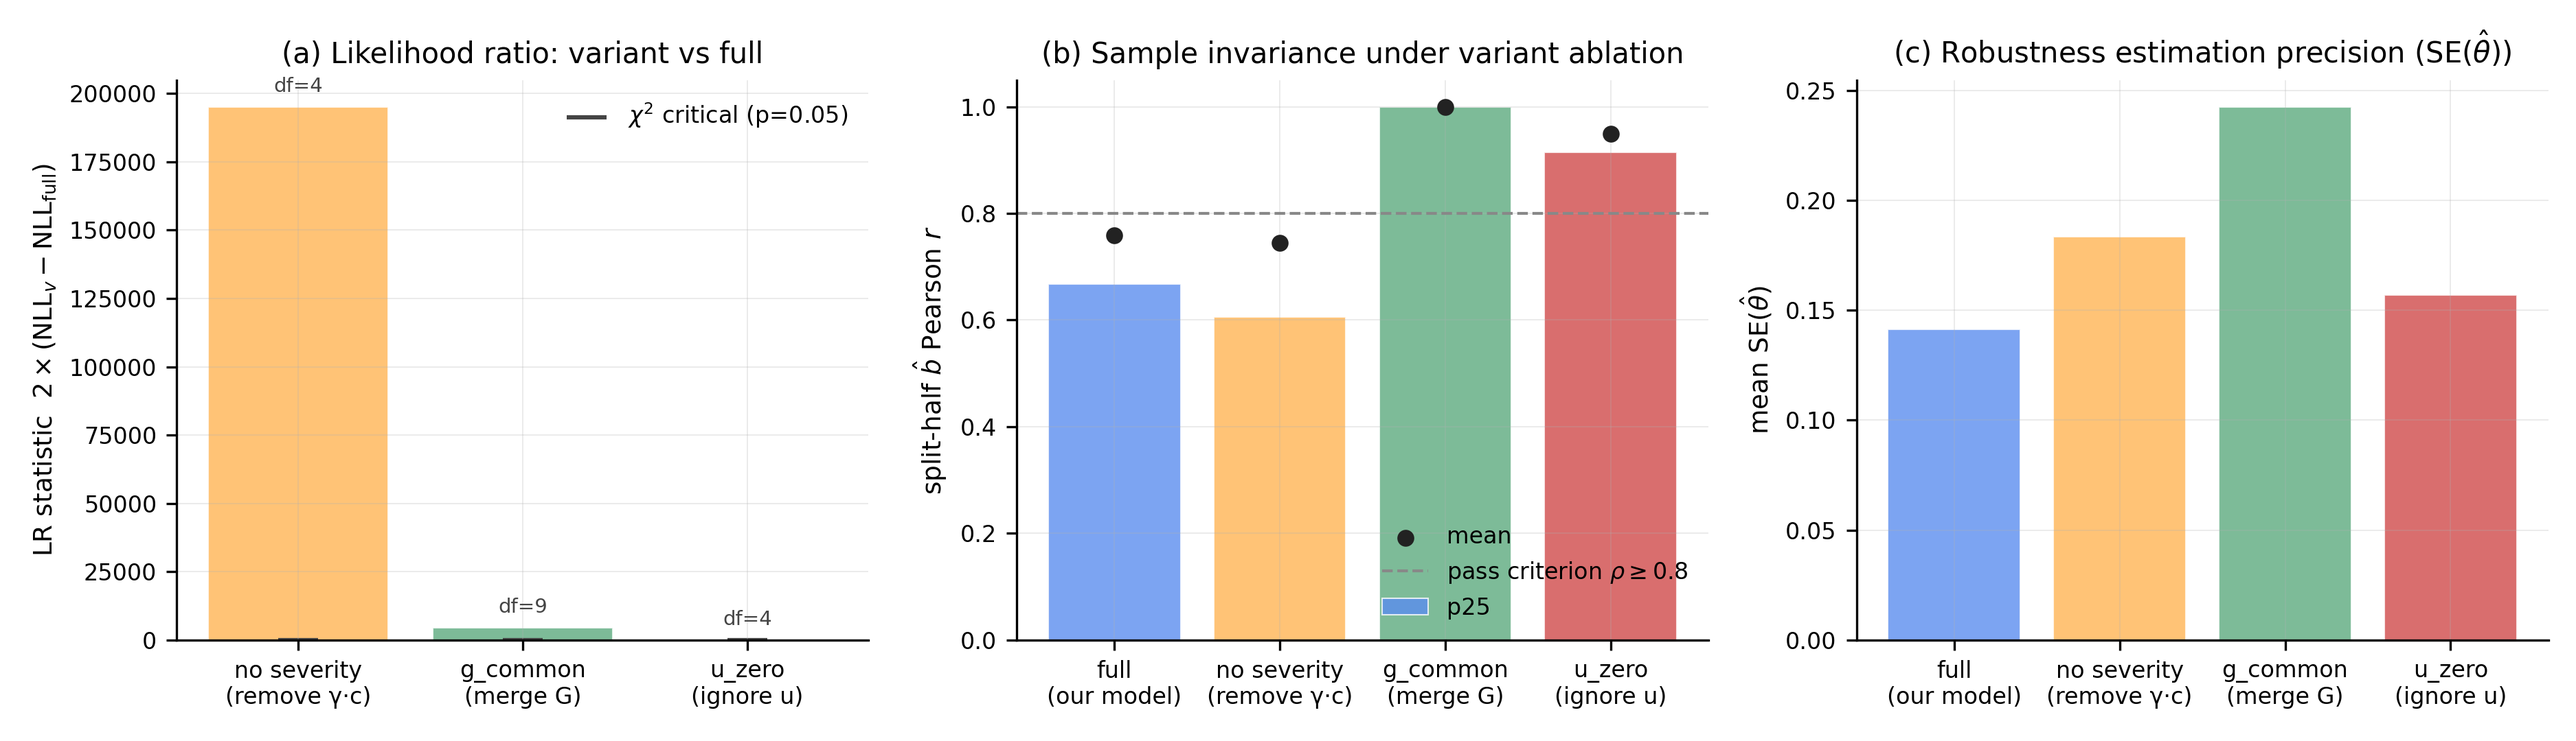
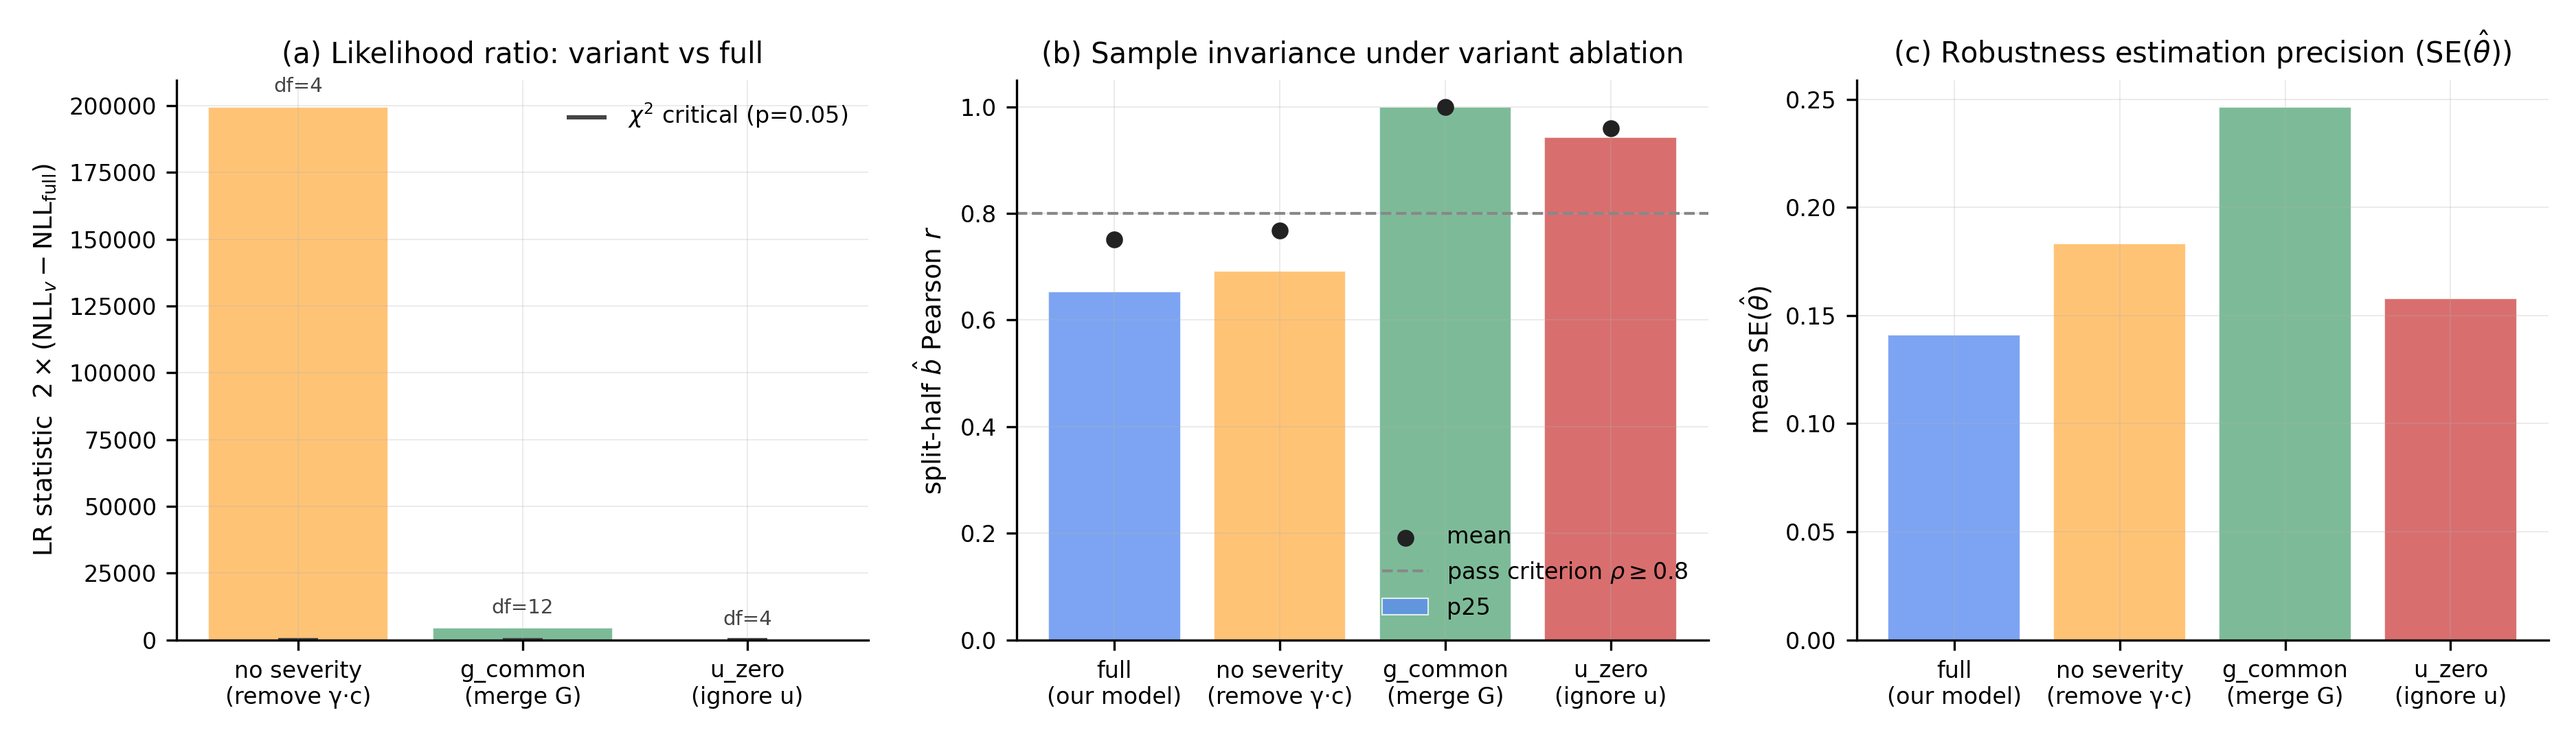
라운드 23: d3 그림 g_common df 9→12 정정 (β·γ·a·u 4모수 합산) + N=18 재산출

diff --git a/analysis/d-grid-validation/d3_figure.py b/analysis/d-grid-validation/d3_figure.py
@@ -83,7 +83,7 @@ def variant_df(variant: str, n_av: int, n_g: int, n_sev: int) -> int:
     if variant == "no_severity":
         return n_g  # γ_G 항을 0 고정
     if variant == "g_common":
-        return 3 * (n_g - 1)  # β·γ·a 각 G별 → 한 값
+        return 4 * (n_g - 1)  # β·γ·a·u 각 G별 → 한 값 (df=12, u 포함)
     if variant == "u_zero":
         return n_g  # u_G 0 고정
     return 0
